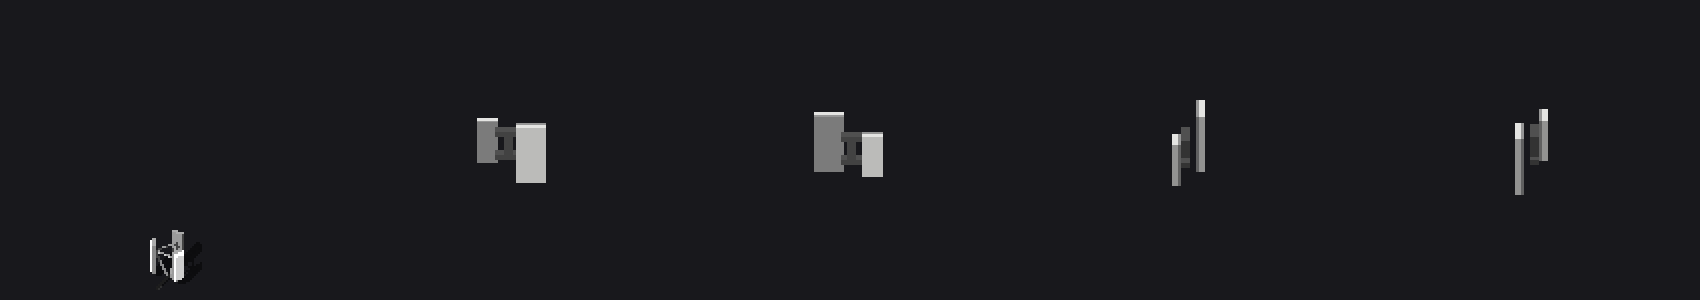
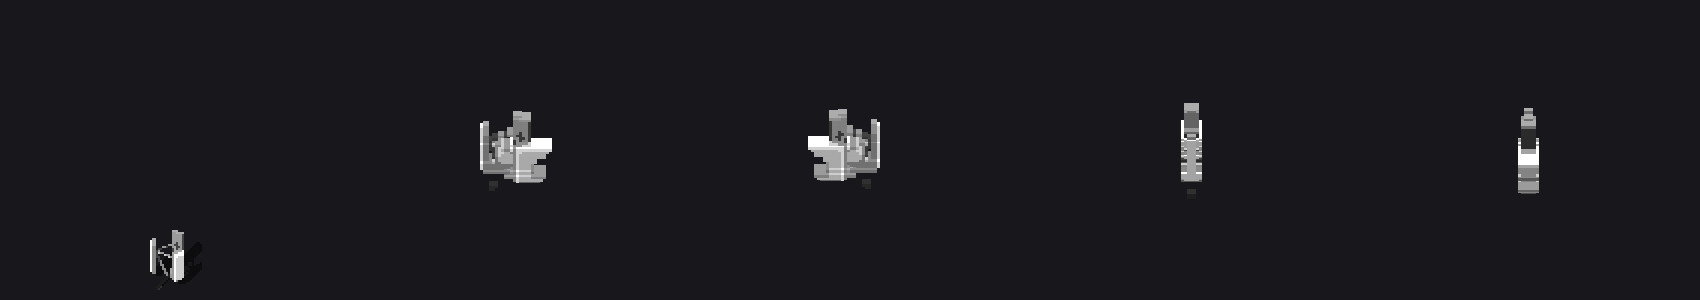
Machinery light + cell booster rebuilt as sprite-measured section solids (front is the tile, depths fitted per section, shadow clusters dropped, de-voided sides)

diff --git a/crates/voxelizer/src/props.rs b/crates/voxelizer/src/props.rs
@@ -4137,9 +4137,9 @@ fn manual_model(id: &str, sprite: &RgbaImage) -> Option<PropModel> {
         "f_floor_lamp" => Some(manual_floor_lamp()),
         "f_wind_vane" => Some(manual_wind_vane(sprite)),
         "f_TV_antenna" => Some(manual_tv_antenna()),
-        "f_cellphone_booster" => Some(manual_cellphone_booster()),
+        "f_cellphone_booster" => Some(section_solid(sprite, 0.6, 6)),
         "f_ventilator" => Some(manual_ventilator()),
-        "f_machinery_light" => Some(manual_machinery_light()),
+        "f_machinery_light" => Some(section_solid(sprite, 0.55, 11)),
         "f_ground_cable" => Some(manual_ground_cable()),
         _ => None,
     }
@@ -4252,21 +4252,82 @@ fn manual_tv_antenna() -> PropModel {
 /// sprite composes them) joined by two bracket arms.
 /// Whites/greys from the sprite ((255,255,255),
 /// (155,155,155)).
-fn manual_cellphone_booster() -> PropModel {
-    let mut m = PropModel::new([32, 28, 32]);
-    let white = rgb(228, 228, 226);
-    let grey = rgb(150, 150, 150);
-    let dark = rgb(80, 80, 80);
-    // Main panel: x 18..27, y 4..25, z 19..20.
-    box_fill(&mut m, 18, 27, 4, 25, 19, 20, white);
-    box_fill(&mut m, 18, 27, 4, 25, 18, 18, grey);
-    // Second panel: x 5..11, y 7..22, z 10..11.
-    box_fill(&mut m, 5, 11, 7, 22, 10, 11, white);
-    box_fill(&mut m, 5, 11, 7, 22, 12, 12, grey);
-    // Bracket arms joining them at y 10 and y 19.
-    box_fill(&mut m, 11, 18, 10, 11, 13, 15, dark);
-    box_fill(&mut m, 11, 18, 19, 20, 13, 15, dark);
-    box_fill(&mut m, 14, 16, 11, 19, 13, 15, dark);
+/// A sprite-faithful section solid (hand-fitted for
+/// the machinery light and the cellphone booster, whose
+/// freehand builds did not match their tiles -- Joey,
+/// 2026-11-17): every row's opaque clusters fill as
+/// boxes whose depth scales with the cluster's width
+/// (factor, clamped 3..=max_d), so the front IS the
+/// sprite, open gaps between members stay open, and
+/// every section has real depth. Clusters that are
+/// entirely near-black are the sprite's ground shadow
+/// and are dropped.
+fn section_solid(sprite: &RgbaImage, factor: f32, max_d: u32) -> PropModel {
+    let (w, h) = (sprite.width(), sprite.height());
+    let mut rows = (0..h).filter(|&y| (0..w).any(|x| opaque(*sprite.get_pixel(x, y))));
+    let band = rows.next().unwrap_or(0)..rows.last().map(|r| r + 1).unwrap_or(0);
+    let fh = band.end - band.start;
+    let mut m = PropModel::new([w, fh.max(1), 32]);
+    for y in 0..fh {
+        let r = band.end - 1 - y;
+        let mut x = 0;
+        while x < w {
+            if !opaque(*sprite.get_pixel(x, r)) {
+                x += 1;
+                continue;
+            }
+            let a = x;
+            while x < w && opaque(*sprite.get_pixel(x, r)) {
+                x += 1;
+            }
+            let b = x - 1;
+            // Drop pure-shadow clusters.
+            let solid_px = (a..=b).any(|px| {
+                let c = sprite.get_pixel(px, r).0;
+                c[0] >= 40 || c[1] >= 40 || c[2] >= 40
+            });
+            if !solid_px {
+                continue;
+            }
+            let wdt = b - a + 1;
+            // Odd depths only, so every section centers
+            // on the same z and adjoining sections meet
+            // flush instead of stepping by one cell.
+            let mut d = ((wdt as f32 * factor).round() as u32).clamp(3, max_d);
+            if d % 2 == 0 {
+                d += 1;
+            }
+            let z0 = 16 - (d - 1) / 2;
+            let z1 = z0 + d - 1;
+            // De-void: near-black paint is the sprite's
+            // outline/shadow, not surface color -- on a
+            // side face it smears into a black slab (the
+            // orrery lesson). Surface voxels showing a
+            // near-black pixel take the cluster's modal
+            // solid tone instead.
+            let modal = modal_color((a..=b).filter_map(|px| {
+                let c = *sprite.get_pixel(px, r);
+                let v = c.0;
+                if v[0] < 40 && v[1] < 40 && v[2] < 40 {
+                    None
+                } else {
+                    Some(c)
+                }
+            }));
+            for vx in a..=b {
+                let mut px = *sprite.get_pixel(vx, r);
+                let v = px.0;
+                if v[0] < 40 && v[1] < 40 && v[2] < 40 {
+                    if let Some(mc) = modal {
+                        px = mc;
+                    }
+                }
+                for z in z0..=z1 {
+                    m.set(vx, y, z, Some(px));
+                }
+            }
+        }
+    }
     m
 }
 
@@ -4309,32 +4370,6 @@ fn manual_ventilator() -> PropModel {
 /// posts, and the lamp head with two pale lamps. Greens
 /// from the sprite ((157,169,73), (123,132,61),
 /// (79,86,38)).
-fn manual_machinery_light() -> PropModel {
-    let mut m = PropModel::new([32, 32, 32]);
-    let dark = rgb(86, 94, 42);
-    let mid = rgb(126, 135, 62);
-    let light = rgb(158, 170, 74);
-    let steel = rgb(168, 168, 160);
-    for (x, z) in [(9u32, 12u32), (21, 12), (9, 19), (21, 19)] {
-        box_fill(&mut m, x, x + 1, 0, 0, z, z + 1, rgb(40, 40, 38));
-    }
-    box_fill(&mut m, 8, 24, 1, 7, 11, 21, dark);
-    box_fill(&mut m, 7, 25, 8, 10, 10, 22, mid);
-    // Motor block on the right of the table.
-    box_fill(&mut m, 17, 24, 11, 19, 13, 20, light);
-    box_fill(&mut m, 17, 24, 20, 20, 13, 20, mid);
-    // Two posts rising at the left-center.
-    box_fill(&mut m, 10, 11, 11, 24, 14, 15, steel);
-    box_fill(&mut m, 14, 15, 11, 24, 14, 15, steel);
-    // Lamp head across the posts' tops.
-    box_fill(&mut m, 8, 21, 25, 30, 12, 19, light);
-    box_fill(&mut m, 8, 21, 30, 30, 12, 19, mid);
-    // Two pale lamps on the head's front face.
-    box_fill(&mut m, 10, 12, 27, 28, 19, 19, rgb(236, 232, 184));
-    box_fill(&mut m, 16, 18, 27, 28, 19, 19, rgb(236, 232, 184));
-    m
-}
-
 /// Ground cable (unconnected): two loose coils lying
 /// flat -- a red ring and a green ring -- with two
 /// white/yellow plugs at the red coil's edge. Reds
